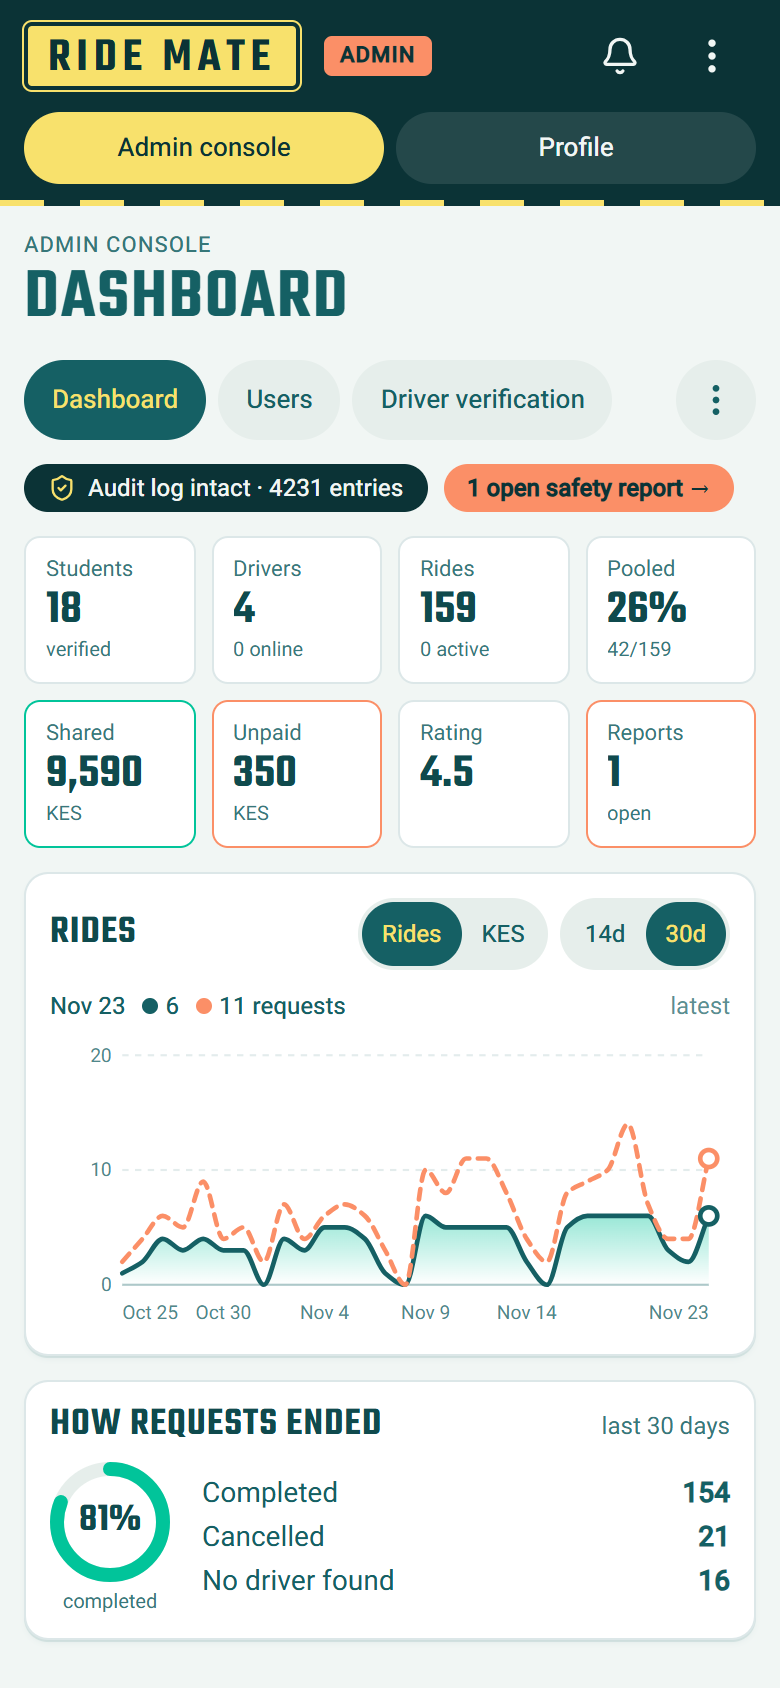
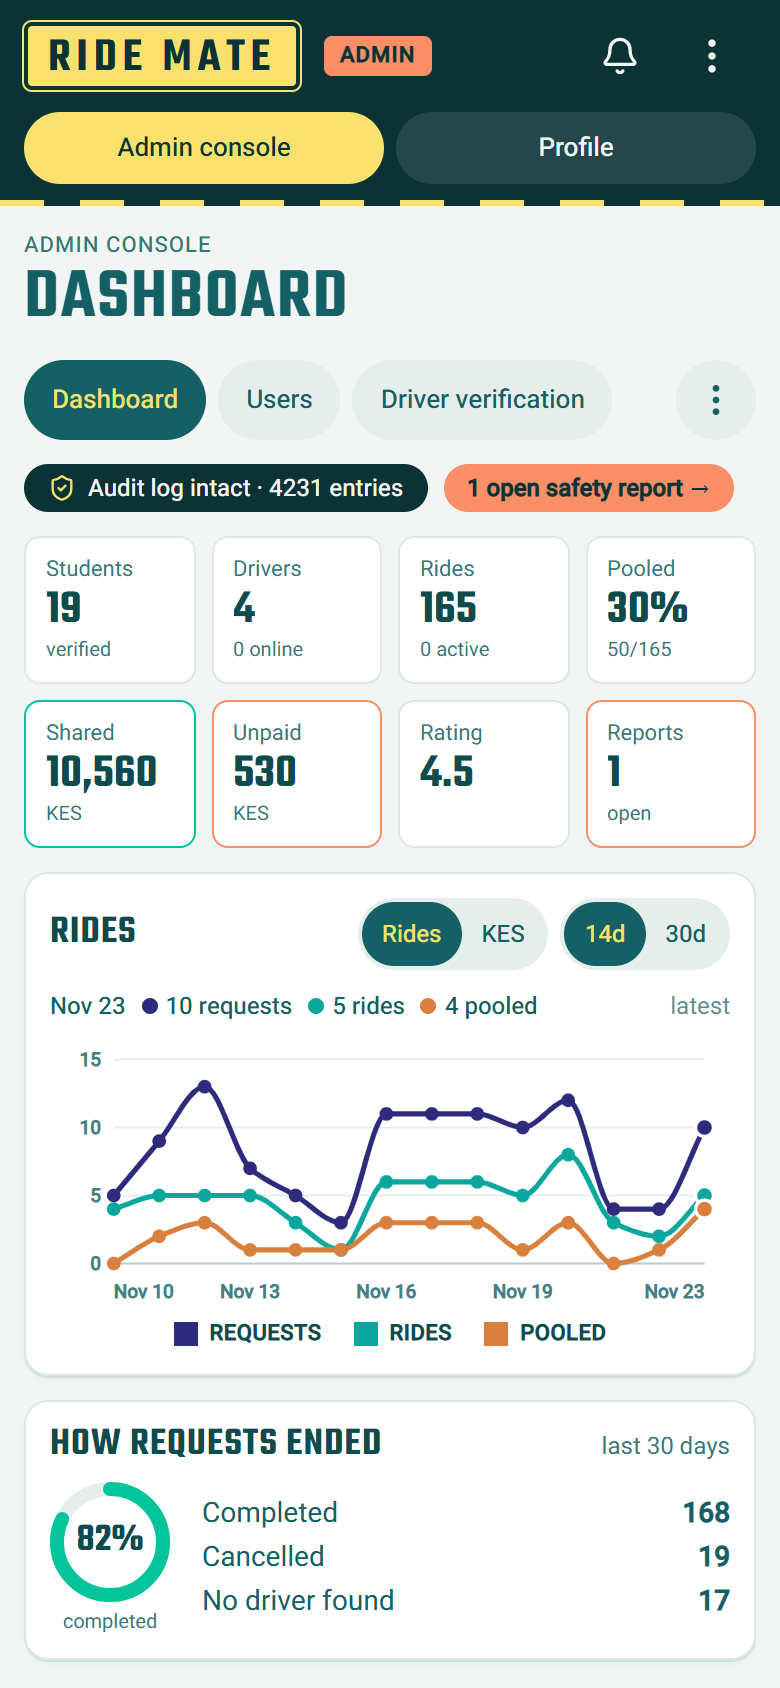
Multi-line charts with dots and legend, like the reference; pooled, riders and request lines

diff --git a/client/src/components/charts/Charts.jsx b/client/src/components/charts/Charts.jsx
@@ -87,7 +87,7 @@ export function Tile({ title, aside, children, className = '' }) {
 // ---------------------------------------------------------------- line charts
 
 const W = 320
-const PAD = { left: 34, right: 10, top: 10, bottom: 22 }
+const PAD = { left: 30, right: 12, top: 12, bottom: 22 }
 
 /** A smooth curve through the points that never overshoots them. */
 function smooth(pts) {
@@ -111,21 +111,24 @@ function smooth(pts) {
   return d
 }
 
-/** A round top for the axis: 1, 2, 5 or 10 times a power of ten. */
-function niceMax(v) {
-  if (v <= 0) return 1
-  const p = 10 ** Math.floor(Math.log10(v))
-  const f = v / p
-  return (f <= 1 ? 1 : f <= 2 ? 2 : f <= 5 ? 5 : 10) * p
+/** Axis ticks with round steps (1, 2, 2.5, 5, 10 times a power of ten), about four of them, from zero. */
+function scale(max) {
+  if (max <= 4) return { step: 1, top: Math.max(1, Math.ceil(max)) }
+  const raw = max / 4
+  const p = 10 ** Math.floor(Math.log10(raw))
+  const f = raw / p
+  const step = (f <= 1 ? 1 : f <= 2 ? 2 : f <= 2.5 ? 2.5 : f <= 5 ? 5 : 10) * p
+  return { step, top: step * Math.ceil(max / step) }
 }
 
-const COLORS = ['var(--color-ink)', 'var(--color-coral)']
+// Navy, teal and orange, so up to three lines are easy to tell apart.
+export const LINE_COLORS = ['#2f2b7c', '#0aa89c', '#d9803f']
 
 /**
- * A line chart for a trend over time, with a faint area under the first line, gridlines, and a readout that follows
- * a finger or the mouse. `series` has one or two lines: [{ name, values }]. `labels` has one label per point.
+ * A line chart for trends: smooth coloured lines with a dot on every point, light gridlines, date labels, a legend
+ * and a readout that follows a finger or the mouse. `series` is up to three lines: [{ name, values }].
  */
-export function LineChart({ labels, series, height = 150, format = (v) => v, axisFormat = (v) => v, label }) {
+export function LineChart({ labels, series, height = 150, format = (v) => v, axisFormat = (v) => v, label, legend = true }) {
   const id = useId()
   const box = useRef(null)
   const [hover, setHover] = useState(null)
@@ -133,11 +136,14 @@ export function LineChart({ labels, series, height = 150, format = (v) => v, axi
   const H = height
   const innerW = W - PAD.left - PAD.right
   const innerH = H - PAD.top - PAD.bottom
-  const top = niceMax(Math.max(0, ...series.flatMap((s) => s.values)))
+  const { step, top } = scale(Math.max(0, ...series.flatMap((s) => s.values)))
   const x = (i) => PAD.left + (n <= 1 ? innerW / 2 : (i / (n - 1)) * innerW)
   const y = (v) => PAD.top + innerH - (v / top) * innerH
   const lines = series.map((s) => s.values.map((v, i) => [x(i), y(v)]))
-  const gridValues = [0, top / 2, top]
+  const grid = []
+  for (let g = 0; g <= top + 1e-9; g += step) grid.push(g)
+  const dots = n <= 14 // a dot on every point while there are few; otherwise only the one being looked at
+
   // About six date labels, always ending on the last day, without the last two touching.
   const tickEvery = Math.max(1, Math.ceil(n / 6))
   const ticks = []
@@ -146,7 +152,6 @@ export function LineChart({ labels, series, height = 150, format = (v) => v, axi
     if (n - 1 - ticks[ticks.length - 1] >= tickEvery * 0.9) ticks.push(n - 1)
     else ticks[ticks.length - 1] = n - 1
   }
-  const best = Math.max(...series[0].values)
   const summary = `${label}. ${series.map((s) => `${s.name}: from ${format(s.values[0])} to ${format(s.values[n - 1])}, highest ${format(Math.max(...s.values))}`).join('. ')}`
 
   const move = (e) => {
@@ -156,6 +161,7 @@ export function LineChart({ labels, series, height = 150, format = (v) => v, axi
     setHover(Math.min(n - 1, Math.max(0, Math.round(((px - PAD.left) / innerW) * (n - 1)))))
   }
   const shown = hover ?? n - 1
+  const single = series.length === 1
 
   return (
     <div className="w-full">
@@ -164,8 +170,9 @@ export function LineChart({ labels, series, height = 150, format = (v) => v, axi
           {labels[shown]}
           {series.map((s, k) => (
             <span key={s.name} className="ml-2 inline-flex items-center gap-1">
-              <span aria-hidden className="inline-block size-2 rounded-full" style={{ background: COLORS[k] }} />
-              {format(s.values[shown])}{k > 0 ? ` ${s.name.toLowerCase()}` : ''}
+              <span aria-hidden className="inline-block size-2 rounded-full" style={{ background: LINE_COLORS[k] }} />
+              {format(s.values[shown])}
+              {series.length > 1 && !String(format(s.values[shown])).toLowerCase().includes(s.name.toLowerCase()) ? ` ${s.name.toLowerCase()}` : ''}
             </span>
           ))}
         </span>
@@ -183,33 +190,49 @@ export function LineChart({ labels, series, height = 150, format = (v) => v, axi
       >
         <defs>
           <linearGradient id={`${id}-fill`} x1="0" y1="0" x2="0" y2="1">
-            <stop offset="0" stopColor="var(--color-mint)" stopOpacity="0.4" />
-            <stop offset="1" stopColor="var(--color-mint)" stopOpacity="0" />
+            <stop offset="0" stopColor={LINE_COLORS[0]} stopOpacity="0.16" />
+            <stop offset="1" stopColor={LINE_COLORS[0]} stopOpacity="0" />
           </linearGradient>
         </defs>
-        {gridValues.map((g) => (
+        {grid.map((g) => (
           <g key={g}>
-            <line x1={PAD.left} x2={W - PAD.right} y1={y(g)} y2={y(g)} stroke="var(--color-ink)" strokeOpacity={g === 0 ? 0.35 : 0.12} strokeDasharray={g === 0 ? undefined : '3 3'} />
-            <text x={PAD.left - 5} y={y(g) + 3} textAnchor="end" fontSize="9" fill="var(--color-ink)" fillOpacity="0.75">
+            <line x1={PAD.left} x2={W - PAD.right} y1={y(g)} y2={y(g)} stroke="var(--color-ink)" strokeOpacity={g === 0 ? 0.3 : 0.1} />
+            <text x={PAD.left - 6} y={y(g) + 3} textAnchor="end" fontSize="9" fontWeight="600" fill="var(--color-ink)" fillOpacity="0.8">
               {axisFormat(Math.round(g * 10) / 10)}
             </text>
           </g>
         ))}
         {ticks.map((i) => (
-          <text key={`${labels[i]}-${i}`} x={x(i)} y={H - 6} textAnchor={i === 0 ? 'start' : i === n - 1 ? 'end' : 'middle'} fontSize="9" fill="var(--color-ink)" fillOpacity="0.75">
+          <text key={`${labels[i]}-${i}`} x={x(i)} y={H - 6} textAnchor={i === 0 ? 'start' : i === n - 1 ? 'end' : 'middle'} fontSize="9" fontWeight="600" fill="var(--color-ink)" fillOpacity="0.8">
             {labels[i]}
           </text>
         ))}
-        {lines[0].length > 1 && <path d={`${smooth(lines[0])} L${x(n - 1)},${y(0)} L${x(0)},${y(0)} Z`} fill={`url(#${id}-fill)`} />}
+        {single && lines[0].length > 1 && <path d={`${smooth(lines[0])} L${x(n - 1)},${y(0)} L${x(0)},${y(0)} Z`} fill={`url(#${id}-fill)`} />}
+        {hover !== null && <line x1={x(hover)} x2={x(hover)} y1={PAD.top} y2={PAD.top + innerH} stroke="var(--color-ink)" strokeOpacity="0.25" />}
         {lines.map((pts, k) => (
-          <path key={series[k].name} d={smooth(pts)} fill="none" stroke={COLORS[k]} strokeWidth="2.2" strokeLinecap="round" strokeLinejoin="round" strokeDasharray={k === 1 ? '5 4' : undefined} />
+          <path key={series[k].name} d={smooth(pts)} fill="none" stroke={LINE_COLORS[k]} strokeWidth="2.4" strokeLinecap="round" strokeLinejoin="round" />
         ))}
-        {hover !== null && <line x1={x(hover)} x2={x(hover)} y1={PAD.top} y2={PAD.top + innerH} stroke="var(--color-ink)" strokeOpacity="0.3" />}
-        {lines.map((pts, k) => (
-          <circle key={series[k].name} cx={pts[shown][0]} cy={pts[shown][1]} r="4" fill="var(--color-surface)" stroke={COLORS[k]} strokeWidth="2.2" />
-        ))}
-        {n > 0 && best === 0 && <text x={W / 2} y={H / 2} textAnchor="middle" fontSize="11" fill="var(--color-ink)" fillOpacity="0.7">No data in this period yet</text>}
+        {lines.map((pts, k) =>
+          pts.map(([px, py], i) =>
+            dots || i === shown ? <circle key={`${series[k].name}-${i}`} cx={px} cy={py} r={i === shown ? 4.2 : 3.2} fill={LINE_COLORS[k]} stroke={i === shown ? 'var(--color-surface)' : 'none'} strokeWidth="1.6" /> : null,
+          ),
+        )}
+        {n > 0 && Math.max(...series.flatMap((s) => s.values)) === 0 && (
+          <text x={W / 2} y={H / 2} textAnchor="middle" fontSize="11" fill="var(--color-ink)" fillOpacity="0.7">
+            No data in this period yet
+          </text>
+        )}
       </svg>
+      {legend && series.length > 1 && (
+        <ul className="mt-1 flex flex-wrap justify-center gap-x-4 gap-y-1">
+          {series.map((s, k) => (
+            <li key={s.name} className="flex items-center gap-1.5 text-[11px] font-bold tracking-wide text-ink-deep uppercase">
+              <span aria-hidden className="inline-block size-3" style={{ background: LINE_COLORS[k] }} />
+              {s.name}
+            </li>
+          ))}
+        </ul>
+      )}
     </div>
   )
 }

diff --git a/client/src/routes/DriverHome.jsx b/client/src/routes/DriverHome.jsx
@@ -28,7 +28,7 @@ function Dashboard() {
   const { data: vehicles } = useLive(useCallback(() => api.listVehicles().then((r) => r.vehicles), []), { pollMs: 60000 })
   const [problem, setProblem] = useState(null)
   const [metric, setMetric] = useState('kes')
-  const [range, setRange] = useState(30)
+  const [range, setRange] = useState(7)
 
   const settle = async (shareId) => {
     setProblem(null)
@@ -87,10 +87,10 @@ function Dashboard() {
 
       <div className="grid min-w-0 gap-3 md:grid-cols-2">
         <Tile
-          title={metric === 'kes' ? 'Cost shared' : 'Rides'}
+          title={metric === 'kes' ? 'Cost shared' : 'Activity'}
           aside={
             <span className="flex flex-wrap items-center justify-end gap-1.5">
-              <Segmented label="Show" value={metric} onChange={setMetric} options={[['kes', 'KES'], ['rides', 'Rides']]} />
+              <Segmented label="Show" value={metric} onChange={setMetric} options={[['kes', 'KES'], ['rides', 'Activity']]} />
               <Segmented label="Period" value={range} onChange={setRange} options={[[7, '7d'], [30, '30d']]} />
             </span>
           }
@@ -98,9 +98,9 @@ function Dashboard() {
           <div className="flex items-center gap-3">
             <div className="min-w-0 flex-1">
               {metric === 'kes' ? (
-                <LineChart labels={recent.map(dayLabel)} series={[{ name: 'KES', values: recent.map((d) => d.sharedKes) }, { name: '7-day average', values: movingAverage((data.daily || []).map((d) => d.sharedKes)).slice(-range) }]} height={104} format={(v) => `KES ${v}`} axisFormat={(v) => v} label={`Cost shared per day, last ${range} days`} />
+                <LineChart labels={recent.map(dayLabel)} series={[{ name: 'KES', values: recent.map((d) => d.sharedKes) }, { name: '7-day average', values: movingAverage((data.daily || []).map((d) => d.sharedKes)).slice(-range) }]} height={90} format={(v) => `KES ${v}`} axisFormat={(v) => v} label={`Cost shared per day, last ${range} days`} />
               ) : (
-                <LineChart labels={recent.map(dayLabel)} series={[{ name: 'Rides', values: recent.map((d) => d.rides) }, { name: '7-day average', values: movingAverage((data.daily || []).map((d) => d.rides)).slice(-range) }]} height={104} label={`Rides per day, last ${range} days`} />
+                <LineChart labels={recent.map(dayLabel)} series={[{ name: 'Rides', values: recent.map((d) => d.rides) }, { name: 'Riders carried', values: recent.map((d) => d.riders ?? 0) }]} height={90} label={`Rides and riders carried per day, last ${range} days`} />
               )}
             </div>
             {acceptPct !== null && (
@@ -119,8 +119,8 @@ function Dashboard() {
             <p className="text-sm text-ink/85">Nothing waiting. Riders pay you in cash or M-Pesa; RideMate takes no commission.</p>
           ) : (
             <ul className="divide-y divide-ink/10">
-              {data.toCollect.slice(0, 2).map((c) => (
-                <li key={c.shareId} className="flex min-h-11 items-center justify-between gap-2 py-1">
+              {data.toCollect.slice(0, 2).map((c, i) => (
+                <li key={c.shareId} className={`min-h-11 items-center justify-between gap-2 py-1 ${i === 1 ? 'hidden sm:flex' : 'flex'}`}>
                   <span className="min-w-0">
                     <span className="block truncate text-sm font-medium text-ink">{c.riderName}</span>
                     <span className="block truncate text-xs text-ink/85">

diff --git a/client/src/routes/RiderDashboard.jsx b/client/src/routes/RiderDashboard.jsx
@@ -23,8 +23,16 @@ function weekly(rides) {
   const starts = Array.from({ length: WEEKS }, (_, i) => new Date(monday.getTime() - (WEEKS - 1 - i) * 7 * 86_400_000))
   return starts.map((start, i) => {
     const end = i === WEEKS - 1 ? Infinity : starts[i + 1].getTime()
-    const inWeek = rides.filter((r) => r.status === 'completed' && new Date(r.at) >= start && new Date(r.at) < end)
-    return { label: SHORT.format(start), rides: inWeek.length, kes: inWeek.reduce((s, r) => s + (r.shareKes || 0), 0) }
+    const all = rides.filter((r) => new Date(r.at) >= start && new Date(r.at) < end)
+    const inWeek = all.filter((r) => r.status === 'completed')
+    return {
+      label: SHORT.format(start),
+      rides: inWeek.length,
+      cancelled: all.filter((r) => r.status === 'cancelled').length,
+      none: all.filter((r) => r.status === 'no_driver').length,
+      kes: inWeek.reduce((s, r) => s + (r.shareKes || 0), 0),
+      avg: inWeek.length ? Math.round(inWeek.reduce((s, r) => s + (r.shareKes || 0), 0) / inWeek.length) : 0,
+    }
   })
 }
 
@@ -95,15 +103,15 @@ export default function RiderDashboard() {
 
       <div className="grid gap-3 md:grid-cols-2">
         <Tile
-          title={metric === 'rides' ? 'Your rides' : 'Your spending'}
+          title={metric === 'rides' ? 'Your requests' : 'Your spending'}
           aside={<Segmented label="Show" value={metric} onChange={setMetric} options={[['rides', 'Rides'], ['spent', 'Spent']]} />}
         >
           <div className="flex items-center gap-3">
             <div className="min-w-0 flex-1">
               {metric === 'rides' ? (
-                <LineChart labels={weeks.map((w) => w.label)} series={[{ name: 'Rides', values: weeks.map((w) => w.rides) }]} height={108} label="Rides per week over the last 8 weeks" />
+                <LineChart labels={weeks.map((w) => w.label)} series={[{ name: 'Completed', values: weeks.map((w) => w.rides) }, { name: 'Cancelled', values: weeks.map((w) => w.cancelled) }, { name: 'No driver', values: weeks.map((w) => w.none) }]} height={104} label="Your requests per week over the last 8 weeks" />
               ) : (
-                <LineChart labels={weeks.map((w) => w.label)} series={[{ name: 'KES', values: weeks.map((w) => w.kes) }]} height={108} format={(v) => `KES ${v}`} label="What you paid per week over the last 8 weeks" />
+                <LineChart labels={weeks.map((w) => w.label)} series={[{ name: 'Spent', values: weeks.map((w) => w.kes) }, { name: 'Per ride', values: weeks.map((w) => w.avg) }]} height={104} format={(v) => `KES ${v}`} label="What you paid per week over the last 8 weeks" />
               )}
             </div>
             {paidPct !== null && (

diff --git a/client/src/routes/AdminSections.jsx b/client/src/routes/AdminSections.jsx
@@ -53,7 +53,7 @@ const DAY_SHORT = new Intl.DateTimeFormat(undefined, { day: 'numeric', month: 's
 /** The console's front page: what is happening now, how the pilot is going, and what needs attention. */
 export function Dashboard({ go = () => {} }) {
   const [metric, setMetric] = useState('rides')
-  const [range, setRange] = useState(30)
+  const [range, setRange] = useState(14)
   const { data, error } = useLoad(() => Promise.all([api.adminOverview(), api.adminVerifyAudit()]).then(([o, chain]) => ({ o: o.overview, chain })), [])
   if (error) return <Alert tone="error">{error}</Alert>
   if (!data) return <Spinner />
@@ -109,9 +109,9 @@ export function Dashboard({ go = () => {} }) {
           {metric === 'rides' ? (
             <LineChart
               labels={labels}
-              series={[{ name: 'Rides', values: recent.map((d) => d.rides) }, { name: 'Requests', values: recent.map((d) => d.requests) }]}
-              height={140}
-              label={`Rides completed and ride requests per day, last ${range} days`}
+              series={[{ name: 'Requests', values: recent.map((d) => d.requests) }, { name: 'Rides', values: recent.map((d) => d.rides) }, { name: 'Pooled', values: recent.map((d) => d.pooled ?? 0) }]}
+              height={130}
+              label={`Requests, rides completed and pooled rides per day, last ${range} days`}
             />
           ) : (
             <LineChart labels={labels} series={[{ name: 'KES', values: recent.map((d) => d.sharedKes) }, { name: '7-day average', values: movingAverage(o.daily.map((d) => d.sharedKes)).slice(-range) }]} height={140} format={(v) => `KES ${v}`} label={`Cost shared per day, last ${range} days`} />

diff --git a/server/src/services/driverApp.js b/server/src/services/driverApp.js
@@ -159,7 +159,7 @@ async function dashboard(userId) {
   const { rows: online } = await pool.query('SELECT is_online, active_ride_id FROM driver_status WHERE driver_id = $1', [userId]);
   // The last 30 days, one entry per day (zeros included), for the trend chart.
   const { rows: daily } = await pool.query(
-    `SELECT to_char(d, 'YYYY-MM-DD') AS day, count(DISTINCT r.ride_id)::int AS rides, COALESCE(sum(s.amount_kes), 0)::int AS shared_kes
+    `SELECT to_char(d, 'YYYY-MM-DD') AS day, count(DISTINCT r.ride_id)::int AS rides, count(s.share_id)::int AS riders, COALESCE(sum(s.amount_kes), 0)::int AS shared_kes
        FROM generate_series(current_date - 29, current_date, interval '1 day') d
        LEFT JOIN rides r ON r.driver_id = $1 AND r.status = 'completed' AND r.completed_at::date = d::date
        LEFT JOIN ride_shares s ON s.ride_id = r.ride_id
@@ -172,7 +172,7 @@ async function dashboard(userId) {
     week: { rides: w.rides, riders: w.riders, sharedKes: w.shared_kes, paidKes: w.paid_kes, pendingKes: w.pending_kes },
     rating: { average: Number(rating[0].avg_rating), count: rating[0].n },
     answers: answers[0],
-    daily: daily.map((x) => ({ day: x.day, rides: x.rides, sharedKes: x.shared_kes })),
+    daily: daily.map((x) => ({ day: x.day, rides: x.rides, riders: x.riders, sharedKes: x.shared_kes })),
     isOnline: Boolean(online[0]?.is_online),
     onARide: Boolean(online[0]?.active_ride_id),
     toCollect: collect.map((c) => ({ shareId: c.share_id, amountKes: c.amount_kes, rideId: c.ride_id, riderName: c.rider_name, at: c.completed_at, dropoff: c.dropoff })),

diff --git a/server/src/repositories/admin.js b/server/src/repositories/admin.js
@@ -173,7 +173,8 @@ async function overview(db = pool) {
     SELECT to_char(d, 'YYYY-MM-DD') AS day,
            (SELECT count(*)::int FROM rides r WHERE r.status = 'completed' AND r.completed_at::date = d::date) AS rides,
            (SELECT COALESCE(sum(s.amount_kes), 0)::int FROM ride_shares s JOIN rides r ON r.ride_id = s.ride_id WHERE r.status = 'completed' AND r.completed_at::date = d::date) AS shared_kes,
-           (SELECT count(*)::int FROM trip_requests q WHERE q.created_at::date = d::date) AS requests
+           (SELECT count(*)::int FROM trip_requests q WHERE q.created_at::date = d::date) AS requests,
+           (SELECT count(*)::int FROM rides r WHERE r.status = 'completed' AND r.completed_at::date = d::date AND (SELECT count(*) FROM ride_shares s WHERE s.ride_id = r.ride_id) > 1) AS pooled
       FROM generate_series(current_date - 29, current_date, interval '1 day') d
      ORDER BY d`);
   const { rows: outcomes } = await db.query(`
@@ -197,7 +198,7 @@ async function overview(db = pool) {
     sharedKes: r.shared_kes,
     paidKes: r.paid_kes,
     avgRating: r.avg_rating,
-    daily: daily.map((x) => ({ day: x.day, rides: x.rides, sharedKes: x.shared_kes, requests: x.requests })),
+    daily: daily.map((x) => ({ day: x.day, rides: x.rides, sharedKes: x.shared_kes, requests: x.requests, pooled: x.pooled })),
     outcomes: outcomes[0],
     topPlaces: places,
   };
